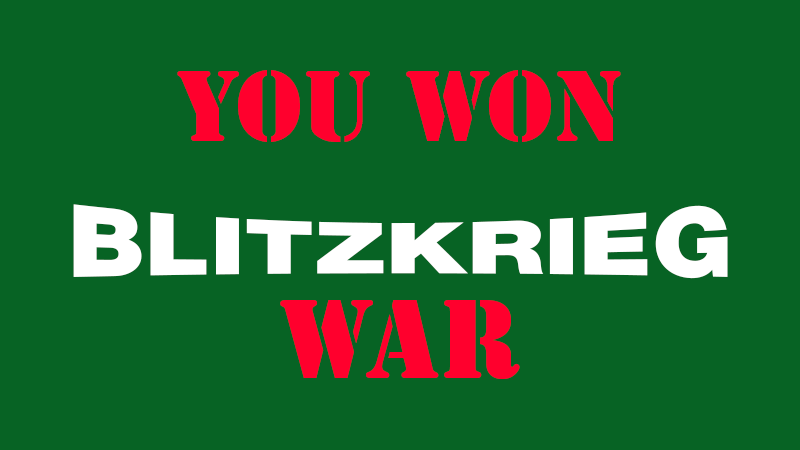
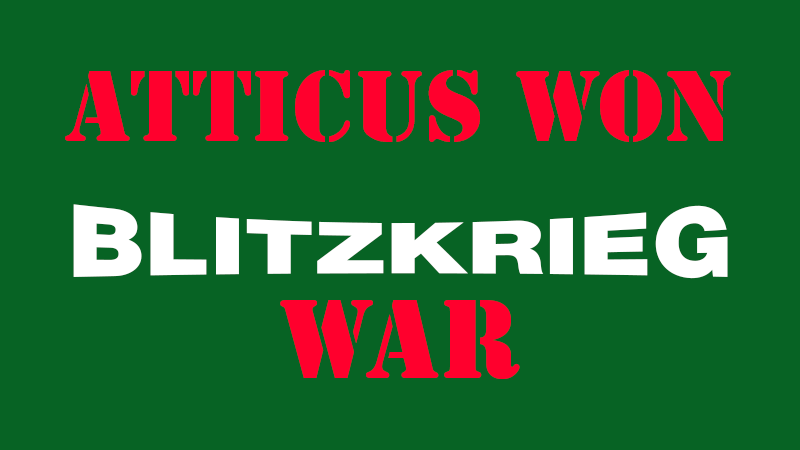
Made simple to tweaks to game output

Changed region(s): [[0.0625, 0.1556, 0.9375, 0.3422]]

diff --git a/js/game.js b/js/game.js
@@ -96,12 +96,12 @@ var deck = new PlayerDeck();
 
 var player1 = {
   score: 0,
-  name: 'You',
+  name: 'Atticus',
 }
 
 var player2 = {
   score: 0,
-  name: 'Atticus',
+  name: 'You',
 }
 
 function PlayerDeck() {
@@ -215,20 +215,14 @@ function gameWon(length) {
   var test = true;
   switch (test) {
     case length.length === 0 && player1.score > player2.score:
-    document.getElementById('card-back1').style.display = "none";
-    document.getElementById('card-back2').style.display = "none";
     winner(1);
     displayWinner('player1');
     break;
     case length.length === 0 && player1.score < player2.score:
-    document.getElementById('card-back1').style.display = "none";
-    document.getElementById('card-back2').style.display = "none";
     winner(2);
     displayWinner('player2');
     break;
     case length.length === 0 && player1.score === player2.score:
-    document.getElementById('card-back1').style.display = "none";
-    document.getElementById('card-back2').style.display = "none";
     winner(3);
     displayWinner('tied');
     break;
